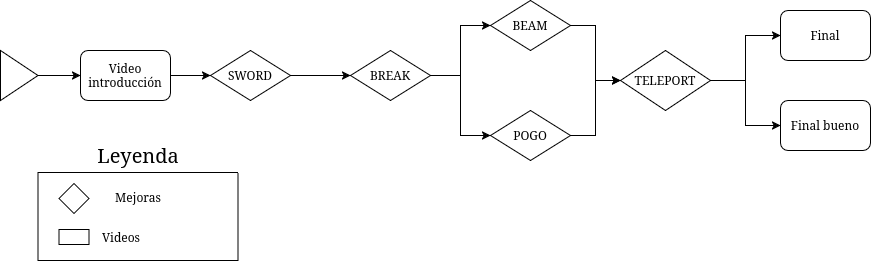
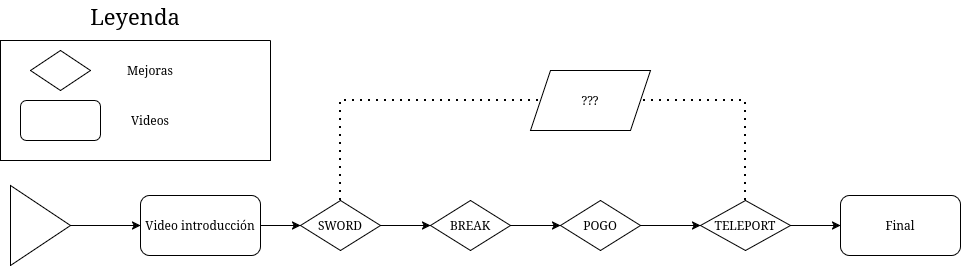
doc, game design document

diff --git a/doc/secciones/04_game_design_document.tex b/doc/secciones/04_game_design_document.tex
@@ -5,7 +5,7 @@ Como se explicaba en el \autoref{chap:stateofart}, el \textit{Game Design Docume
 
 En este capítulo se recopila por tanto el GDD completo en su versión final, es decir, con todos los cambios que se han aplicado a lo largo del desarrollo.
 
-\section{Introducción: The mysterious journey of Sir. Swimalot in the deep caves of Ugrh}
+\section{Introducción: MERO-MERO}
 
 El proyecto cimienta sus bases sobre el juego Zelda II: The Adventure of Link. Pese a ser de los juegos menos comprendidos de su franquicia, detrás de su dificultad frustrante propia de la época hay una base jugable que puede ser fácilmente transladable a las sensibilidades actuales.
 
@@ -13,15 +13,19 @@ El objetivo de este proyecto es desarrollar un metroidvania de perfil bajo con u
 
 \section{Premisa y tono}
 
-Un pequeño pez nada tranquilamente por el océano hasta que, en un descuido... ¡Una gaviota lo pesca al vuelo! Qué mala suerte... La gaviota lo lleva volando lejos, muy lejos, hasta que de repente un rayo la golpea, haciendo que deje caer al pequeño pez en el acto. Este cae dentro de una gran gruta, y para su suerte, aterriza justo encima de una armadura que estaba ahí en medio, por alguna razón. El pez misteriosamente era capaz de controlar esa armadura como si de su cuerpo se tratase, convirtiendose en... ¡Sir. Swimalot! Ahora tendrá que explorar estas misteriosas cuevas y encontrar el camino a su casa, el mar.
+El juego comienza con un pequeño pez cayendo al vacío en una misteriosa gruta. Sin desearlo, este aterriza sobre una armadura abandonada. Ahora puede usar la armadura como si de su cuerpo se tratase, sin entender por qué. 
 
-El tono general del juego es inocente, cómico y algo absurdo en ocasiones. Se usará un lenguaje sencillo en los diálogos. La trama no debe tener mucha presencia ni tener interés por si misma, relegándose a simplemente dar contexto a los elementos y objetivos que se encuentran en el juego además de servir de vehículo para introducir chascarrillos en los diálogos. Es por esto mismo que no debe encontrarse demasiados diálogos, ni necesite prestar atención a los mismos para poder progresar.
+Estas cuevas están llenas de otros seres del mar. Algunos de ellos libres y agresivos. Otros sin embargo también encontraron armaduras y les fue otorgado el don del habla. Nadie sabe cómo acabó ahí, qué significan las armaduras, por qué solo algunos de ellos pudieron conseguir una y... lo más importante, cómo salir de estas cuevas.
+
+Pero estas grutas no solo están pobladas de criaturas agresivas o desamparadas; también de antiguos secretos y reliquias que serán la clave para escapar de este lugar.
+
+El tono del juego busca ser críptico, ambiguo y a veces inocente. Se le da muy poco contexto al jugador deliberadamente. Se hace uso de iconografía universal para marcar los objetivos y ofrecer guía discreta al jugador. Se evita dar pistas o información explícita en pos de que el jugador ate cabos para avanzar por las zonas del juego. También se busca un toque de humor blanco y estúpido a través de las interacciones con NPCs y sus diseños.
 
 \section{Mecánicas principales y objetivos}
 
-En términos de ambientación, el objetivo es que Sir. Swimalot regrese al mar. En términios mecánicos, el jugador participará en el siguiente \textit{bucle de juego}\footnote{estructura jugable principal que el jugador repite a lo largo de todo el juego.}: va explorando el mundo sorteando trampas y enemigos hasta que encuentra un \textbf{bloqueo} que le impida avanzar en cierta dirección. Entonces debe cambiar su rumbo, encontrar una \textbf{mejora} que le permita atravesar el bloqueo. Entonces podrá volver al punto anterior y seguir avanzando. Es importante que estas mejoras sirvan tanto para desbloquear el camino principal como otras estancias que lleven a recompensas secundarias.
+En términos de ambientación, el objetivo es que MERO, el protagonista, es simplemente regresar al mar. En términios mecánicos, el jugador participará en el siguiente \textit{bucle de juego}\footnote{estructura jugable principal que el jugador repite a lo largo de todo el juego.}: va explorando el mundo sorteando trampas y enemigos hasta que encuentra un \textbf{bloqueo} que le impida avanzar en cierta dirección. Entonces debe cambiar su rumbo, encontrar una \textbf{mejora} que le permita atravesar el bloqueo. Entonces podrá volver al punto anterior y seguir avanzando. Es importante que estas mejoras sirvan tanto para desbloquear el camino principal como otras estancias que lleven a recompensas secundarias.
 
-Como objetivo secundario, el jugador deberá recoger una serie de \textit{doblones} que estarán escondidos por todo el mapa. Al completar el juego habiendose hecho con todos los doblones se desbloquea un final secundario en el que Sir. Swimalot puede \textbf{pagar la entrada de una hipoteca} en el fondo del mar.
+Como objetivo secundario, el jugador deberá recoger una serie de \textit{corazones} escondidos por todo el mapa que aumentarán su salud. Esto recompensará la curiosidad de los perfiles de jugador que disfruten más de la exploración y facilitará su partida.
 
 Como \textbf{mecánicas jugables principales}, personaje podrá moverse de izquierda a derecha, saltar y atacar. El salto es sencillo, ausero, rígido. Una vez ejecutado un salto no debería ser posible alterar considerablemente su trayectoria. La intención es transmitir sensación de peso. El ataque, por las mismas razones, debe tener un pequeño retardo desde que se pulsa el botón hasta que se realiza. Los desafíos plataformeros y combates, por tanto, deben ser sencillos y legibles, para poder operar fácilmente con este esquema de control.
 
@@ -34,7 +38,7 @@ Como \textbf{mecánicas secundarias} se tienen todas las \textit{mejoras} que se
     \item \textbf{Cetro}: Permite a Sir Swimalot teletransportarse algunos metros hacia izquierda y derecha. El esquema de funcionamiento puede observarse en la figura \ref{fig:cetro}.
 \end{itemize}
 
-Para que el jugador pueda guardar su progreso, deberá encontrar unas salas especiales llamadas \textbf{salas de guardado}. En esas habrá una pecera donde Sir Swimalot podrá saltar para guardar su progreso. Si Sir Swimalot es derrotado, volverá a aparecer en la última sala de guardado que haya visitado.
+Para que el jugador pueda guardar su progreso, deberá encontrar unas salas especiales llamadas \textbf{salas de guardado}. En esas habrá una misteriosa estatua dorada que clavará su espada en el suelo.
 
 \begin{figure}[h]
     \centering